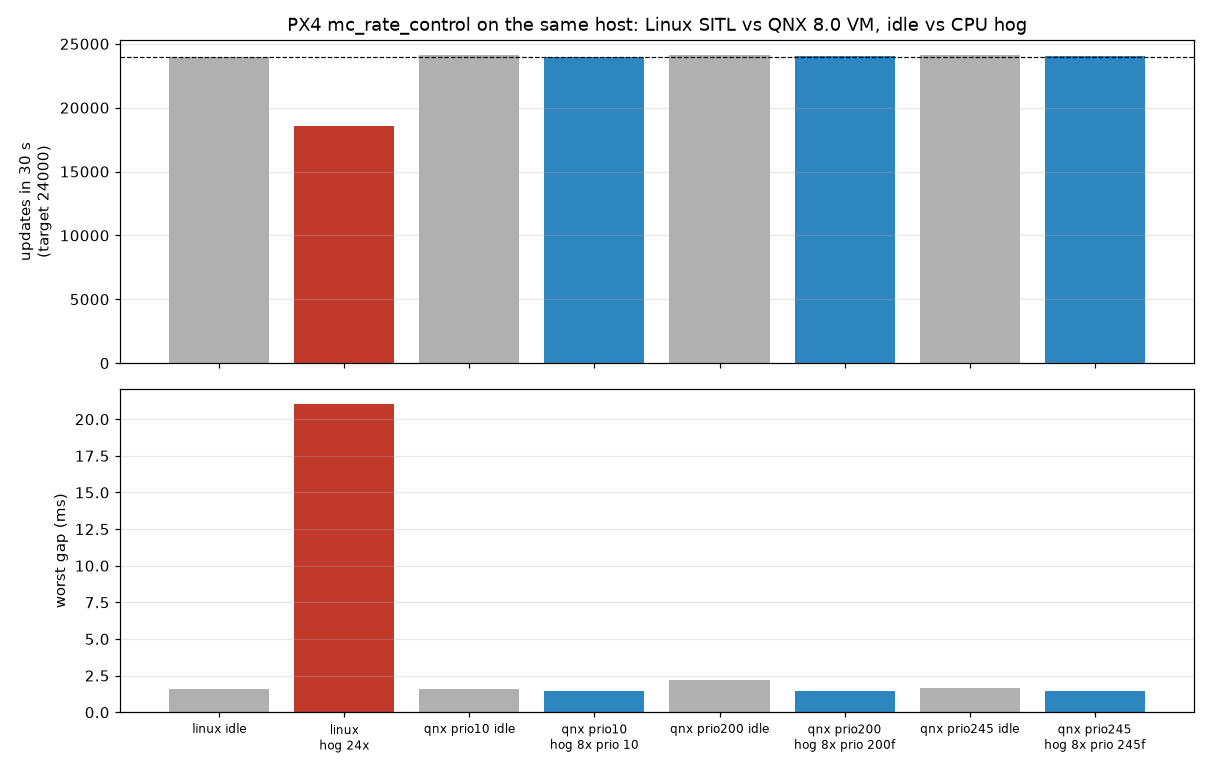
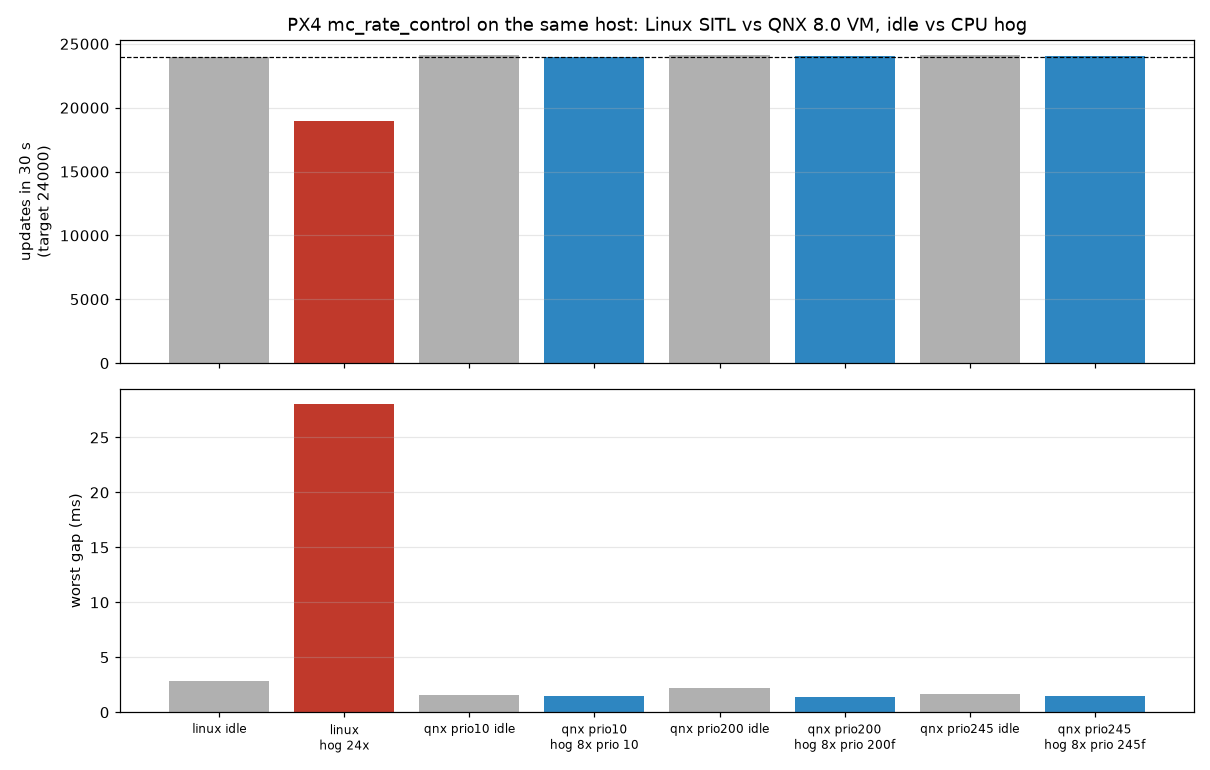
results: Linux rerun with scheduling-class evidence; docs match bench/results

diff --git a/docs/codelab-site/px4-sih-on-qnx/index.html b/docs/codelab-site/px4-sih-on-qnx/index.html
@@ -201,8 +201,8 @@ HOG_PRIO=200f bench/run_timing_qnx.sh qnx-200   # load at FIFO priority 200
 <pre><code>{&#34;label&#34;: &#34;qnx idle&#34;, &#34;events&#34;: 24098, &#34;avg_us&#34;: 1249.95, &#34;max_us&#34;: 1566, ...}
 {&#34;label&#34;: &#34;qnx hog 8x prio 10&#34;, &#34;events&#34;: 24006, &#34;avg_us&#34;: 1249.95, &#34;max_us&#34;: 1438, ...}
 </code></pre>
-<p>The rate controller stays at about 24000 updates per 30 s (800 Hz) with or without the load. For comparison, <code>bench/run_timing_linux.sh</code> runs the same test against stock Linux SITL on the host. There it dropped to 18577 updates with a 21 ms gap. Unprivileged Linux SITL can&#39;t use real-time priorities, so this is not an RT-Linux comparison.</p>
-<p class="image-container"><img alt="Rate controller updates: Linux SITL vs QNX under load" src="img/7f57f941f07877cf.png"></p>
+<p>The rate controller stays at about 24000 updates per 30 s (800 Hz) with or without the load. For comparison, <code>bench/run_timing_linux.sh</code> runs the same test against stock Linux SITL on the host. There it dropped to 18953 updates with a 28 ms gap. Unprivileged Linux SITL can&#39;t use real-time priorities, so this is not an RT-Linux comparison.</p>
+<p class="image-container"><img alt="Rate controller updates: Linux SITL vs QNX under load" src="img/71bdb5ce8b51a793.png"></p>
 <p>Try <code>HOG_PRIO=245f</code>. Now the load is <strong>above</strong> the EKF (239), and the script reports <code>ekf2 updates: ... hog 1</code>. Strict priorities do exactly what you set. Choosing them is a design decision.</p>
 
 

diff --git a/docs/video-script.md b/docs/video-script.md
@@ -9,7 +9,7 @@ Target 2:45. Screen recording at 1080p, voice-over, no copyrighted music. Each s
 | 0:30–0:45 | `scripts/run-vm.sh`, `scripts/vm-ssh.sh uname -a`, `scripts/px4-vm.sh start` and `log` showing "Ready for takeoff" | "A QNX 8.0 VM in QEMU. PX4 boots its normal startup script with the built-in SIH simulator." |
 | 0:45–1:15 | QGroundControl: vehicle appears, take off, fly the mission (speed up 4x) | "QGroundControl on the host sees it right away. Arm, take off, fly a mission. The same flight runs as an automated test." |
 | 1:15–1:35 | `scripts/vm-ssh.sh "pidin -p px4 -F '%h %p'"` | "Every PX4 thread gets a real QNX FIFO priority. Rate controller at 253, estimator 239, logging near the bottom. Getting this right needed one QNX-specific fix: threads inherit their creator's priority unless told otherwise." |
-| 1:35–2:05 | `docs/img/timing.png` full screen, then `bench/run_timing_qnx.sh` output | "Then I loaded the CPU with twice as many busy threads as cores. Stock Linux SITL, running without real-time priorities, lost almost a quarter of its control updates, with a 21 millisecond gap. On QNX the rate controller didn't move. Even with the load at FIFO priority 200, the control loops kept running, and only the lower-priority tasks waited, exactly as configured." |
+| 1:35–2:05 | `docs/img/timing.png` full screen, then `bench/run_timing_qnx.sh` output | "Then I loaded the CPU with twice as many busy threads as cores. Stock Linux SITL, running without real-time priorities, lost almost a quarter of its control updates, with a 28 millisecond gap. On QNX the rate controller didn't move. Even with the load at FIFO priority 200, the control loops kept running, and only the lower-priority tasks waited, exactly as configured." |
 | 2:05–2:25 | Terminal: `tests/test_fault_isolation.sh` running next to QGC mid-mission: "Memory fault (core dumped)", then "PASS" | "Mid-mission, a separate process grabs CPU and memory and crashes. The vehicle keeps flying, and QNX saves a core file for debugging." |
 | 2:25–2:40 | `scripts/vm-ssh.sh cat /dev/px4/state` during flight | "PX4 also shows up as a native QNX resource manager. Any QNX process can read live vehicle state with plain cat, and the server stays at a fixed low priority." |
 | 2:40–2:50 | Repo README, codelab page, PR link | "Everything is reproducible from one script, with tests for every claim, a codelab, and an upstream pull request." |

diff --git a/docs/results.md b/docs/results.md
@@ -12,8 +12,8 @@ Scripts: `bench/run_timing_qnx.sh` (`HOG_PRIO=10|200f|245f`), `bench/run_timing_
 
 | Run | Updates in 30 s | Mean | Worst gap | Std dev |
 |---|---|---|---|---|
-| Linux SITL, idle | 24004 | 1250 us | 1.6 ms | 49 us |
-| Linux SITL, 24 busy threads (2x host CPUs) | 18577 | 1617 us | 21.0 ms | 1476 us |
+| Linux SITL, idle | 24003 | 1250 us | 2.8 ms | 78 us |
+| Linux SITL, 24 busy threads (2x host CPUs) | 18953 | 1584 us | 28.0 ms | 1446 us |
 | QNX, idle (3 runs) | 24095–24098 | 1250 us | 1.6–2.2 ms | 73–80 us |
 | QNX, 8 busy threads (2x vCPUs) at prio 10 | 24006 | 1250 us | 1.4 ms | 51 us |
 | QNX, 8 busy threads at prio 200 FIFO | 24037 | 1250 us | 1.4 ms | 50 us |
@@ -21,7 +21,7 @@ Scripts: `bench/run_timing_qnx.sh` (`HOG_PRIO=10|200f|245f`), `bench/run_timing_
 
 What this shows:
 
-- Under load, Linux SITL lost 23% of rate-controller updates and had a 21 ms gap. Stock Linux SITL runs as a normal user, so PX4's `SCHED_FIFO` requests fail (`EPERM`) and its threads share the CPU with the load as equals.
+- Under load, Linux SITL lost 21% of rate-controller updates and had a 28 ms gap. Stock Linux SITL runs as a normal user, so PX4's `SCHED_FIFO` requests fail (`EPERM`) and its threads share the CPU with the load as equals.
 - On QNX the update count and worst gap did not change under load. Even busy threads at FIFO priority 200 or 245 did not move the rate loop, because `wq:rate_ctrl` runs at 253.
 - At prio 200 the load is above PX4's non-control tasks. In `bench/results/qnx-hog-prio200-hog-perf.txt` (30 s) commander ran 6 cycles, navigator 2, and each MAVLink sender 29 with a 30 s worst gap. Rate, attitude and EKF loops were unaffected, but the GCS link and failsafe logic were stalled for the whole phase. At prio 10 (a normal QNX program) nothing in PX4 was affected.
 - The idle rows are noisier than the hog rows (std dev 73–80 us vs about 50 us, and the prio-200 run's idle phase had a 2.2 ms worst gap). Likely cause: idle vCPUs halt and wake through KVM, and busy vCPUs don't. So "did not change under load" partly reflects a noisy idle baseline.

diff --git a/docs/submission.md b/docs/submission.md
@@ -63,7 +63,7 @@ QNX resource manager: the PX4 module qnx_state_resmgr (ChannelCreate with _NTO_C
 
 System analysis: tracelogger/traceprinter capture of the rate-controller thread (bench/trace_ratectrl.sh). Process isolation plus dumper core files during a mission (tests/test_fault_isolation.sh). pidin, on -p, slog2info and ntox86_64-gdb were used throughout.
 
-Result: under 2x CPU overload, stock Linux SITL (unprivileged, no real-time priorities) lost 23% of rate-controller updates. On QNX the 800 Hz rate loop was unchanged, including with the load at FIFO priority 200, where only lower-priority PX4 tasks were starved, as designed (docs/results.md, bench/). Full map of files and demo timestamps: docs/qnx-evidence.md.
+Result: under 2x CPU overload, stock Linux SITL (unprivileged, no real-time priorities) lost 21% of rate-controller updates. On QNX the 800 Hz rate loop was unchanged, including with the load at FIFO priority 200, where only lower-priority PX4 tasks were starved, as designed (docs/results.md, bench/). Full map of files and demo timestamps: docs/qnx-evidence.md.
 
 Pull request URL:
 

diff --git a/README.md b/README.md
@@ -49,7 +49,7 @@ tests/run-all.sh
 
 ## Results
 
-See [docs/results.md](docs/results.md). Short version: with 2x-oversubscribed CPU load, stock Linux SITL (run as a normal user, so without real-time priorities; RT Linux not measured) lost 23% of rate-controller updates and had a 21 ms gap. On QNX the 800 Hz rate loop did not change. With the load at FIFO priority 200 the rate, attitude and EKF loops (239–253) were still unaffected, while lower-priority PX4 tasks (commander, navigator, MAVLink) were starved, exactly as strict priorities dictate.
+See [docs/results.md](docs/results.md). Short version: with 2x-oversubscribed CPU load, stock Linux SITL (run as a normal user, so without real-time priorities; RT Linux not measured) lost 21% of rate-controller updates and had a 28 ms gap. On QNX the 800 Hz rate loop did not change. With the load at FIFO priority 200 the rate, attitude and EKF loops (239–253) were still unaffected, while lower-priority PX4 tasks (commander, navigator, MAVLink) were starved, exactly as strict priorities dictate.
 
 ![timing](docs/img/timing.png)
 

diff --git a/codelab/px4-sih-on-qnx/px4-sih-on-qnx.md b/codelab/px4-sih-on-qnx/px4-sih-on-qnx.md
@@ -228,7 +228,7 @@ HOG_PRIO=200f bench/run_timing_qnx.sh qnx-200   # load at FIFO priority 200
 {"label": "qnx hog 8x prio 10", "events": 24006, "avg_us": 1249.95, "max_us": 1438, ...}
 ```
 
-The rate controller stays at about 24000 updates per 30 s (800 Hz) with or without the load. For comparison, `bench/run_timing_linux.sh` runs the same test against stock Linux SITL on the host. There it dropped to 18577 updates with a 21 ms gap. Unprivileged Linux SITL can't use real-time priorities, so this is not an RT-Linux comparison.
+The rate controller stays at about 24000 updates per 30 s (800 Hz) with or without the load. For comparison, `bench/run_timing_linux.sh` runs the same test against stock Linux SITL on the host. There it dropped to 18953 updates with a 28 ms gap. Unprivileged Linux SITL can't use real-time priorities, so this is not an RT-Linux comparison.
 
 ![Rate controller updates: Linux SITL vs QNX under load](timing.png)
 
